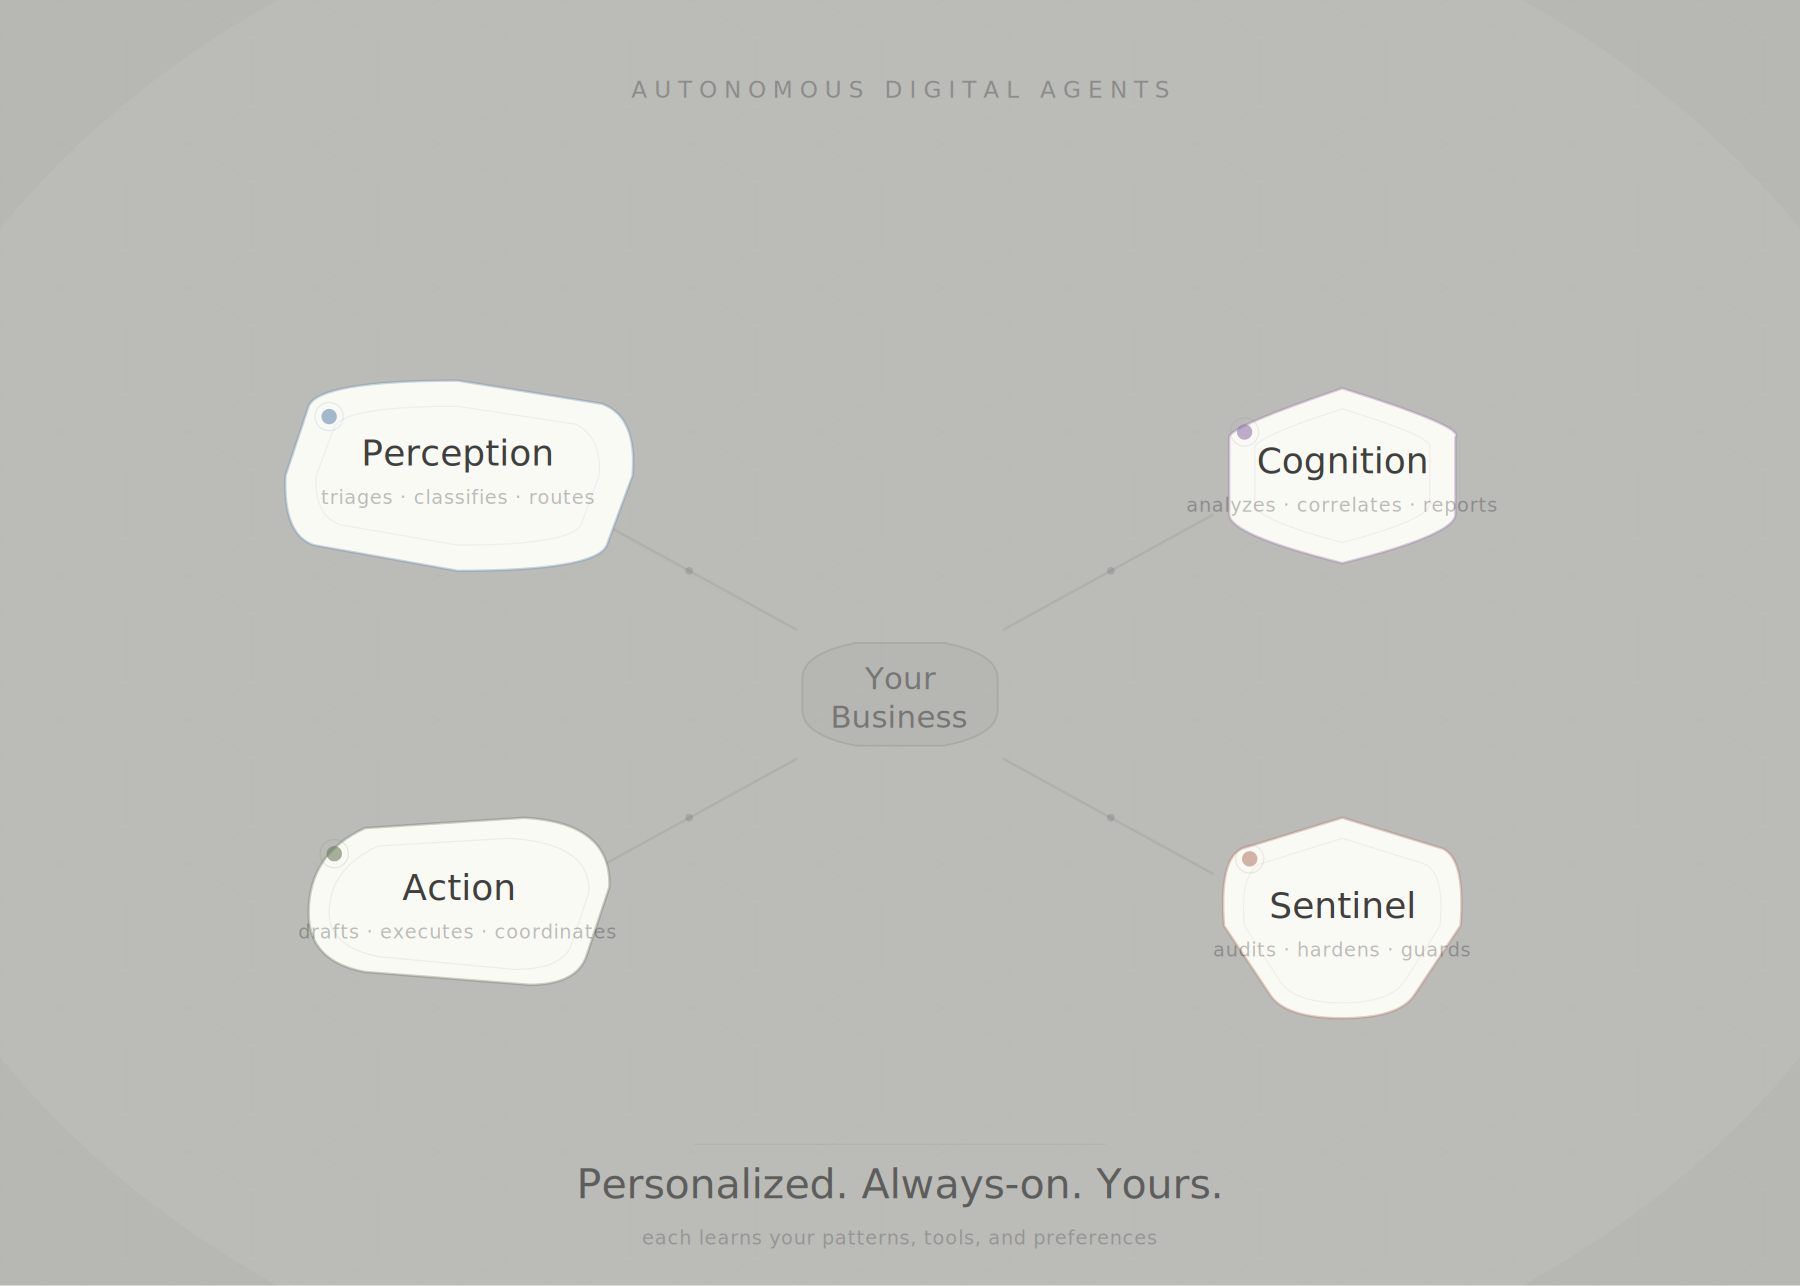
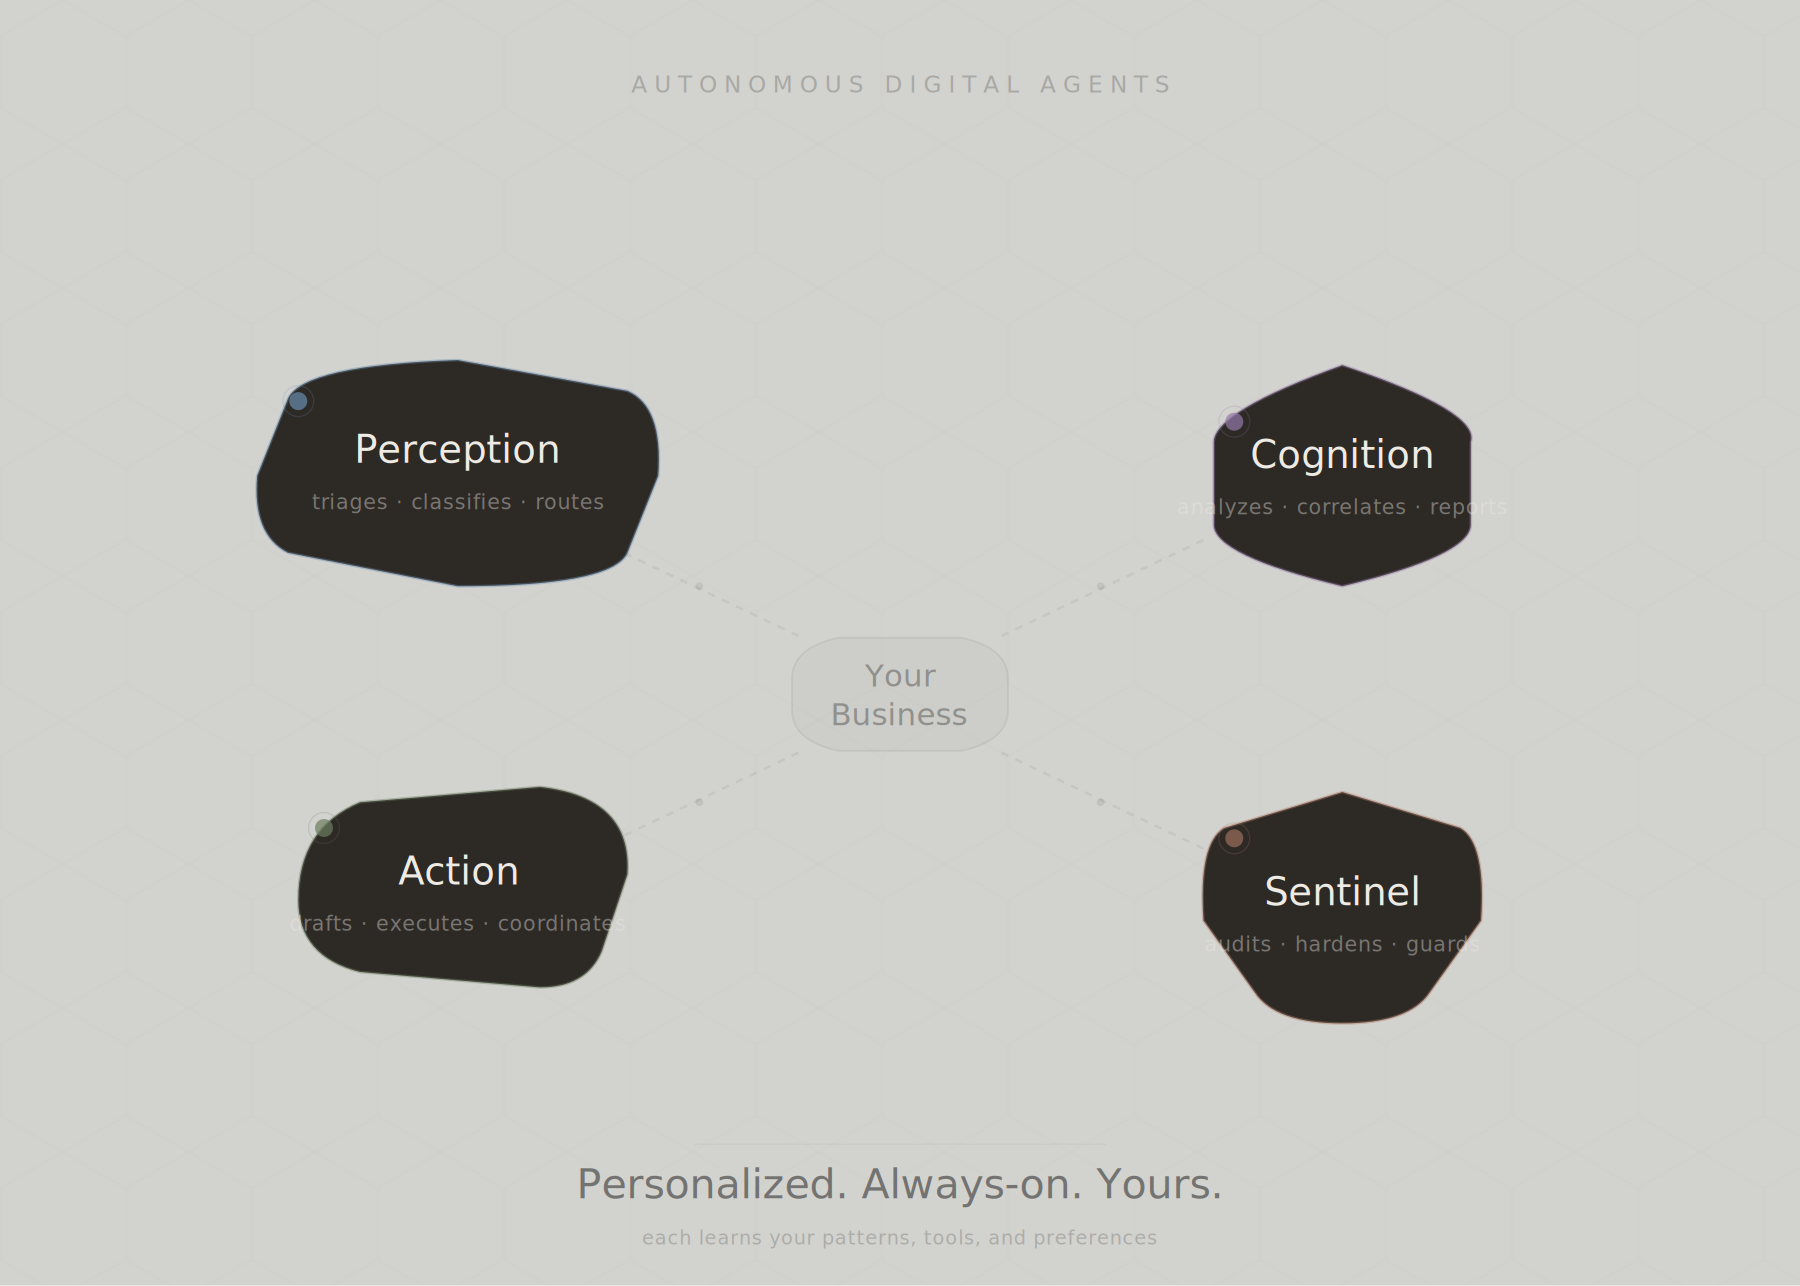
Fix: dark blocks on light bg, move graphic to CORE IDEA section

diff --git a/index.html b/index.html
@@ -301,12 +301,6 @@ footer a:hover{color:var(--fg)}
   </div>
 </section>
 
-<!-- Agents Graphic -->
-<div style="max-width:720px;margin:0 auto;padding:2rem 2rem 0;text-align:center">
-  <img class="agents-graphic-light" src="team-agents-light.svg" alt="Four autonomous digital agents — Perception, Cognition, Action, Sentinel — connected to your business" style="width:100%;height:auto" loading="lazy">
-  <img class="agents-graphic-dark" src="team-agents-dark.svg" alt="Four autonomous digital agents — Perception, Cognition, Action, Sentinel — connected to your business" style="width:100%;height:auto;display:none" loading="lazy">
-</div>
-
 <div class="divider"></div>
 
 <!-- Meet You Where You Are -->
@@ -338,6 +332,10 @@ footer a:hover{color:var(--fg)}
   <div class="section-label">The Core Idea</div>
   <h2>Personalized always-on agents for your team</h2>
   <p style="font-size:1.05rem;color:var(--fg-mid);max-width:760px;line-height:1.7;margin-bottom:1rem">Every team member gets a dedicated AI agent that knows their role, remembers context, and learns from every interaction — always on, nights, weekends, holidays. As new capabilities ship, each agent inherits them automatically. Your agent workforce compounds in value without retraining.</p>
+  <div style="max-width:640px;margin:2rem auto;text-align:center">
+    <img class="agents-graphic-light" src="team-agents-light.svg" alt="Four autonomous digital agents — Perception, Cognition, Action, Sentinel — connected to your business" style="width:100%;height:auto" loading="lazy">
+    <img class="agents-graphic-dark" src="team-agents-dark.svg" alt="Four autonomous digital agents — Perception, Cognition, Action, Sentinel — connected to your business" style="width:100%;height:auto;display:none" loading="lazy">
+  </div>
   <p style="font-size:.95rem;color:var(--fg-mid);max-width:760px;line-height:1.7;margin-bottom:2.5rem">This isn't a generic tool bolted onto your workflow. It's a custom agentic technology stack built inside your infrastructure, trained on your data, and designed for how your team actually works.</p>
 
   <div class="agents-grid">